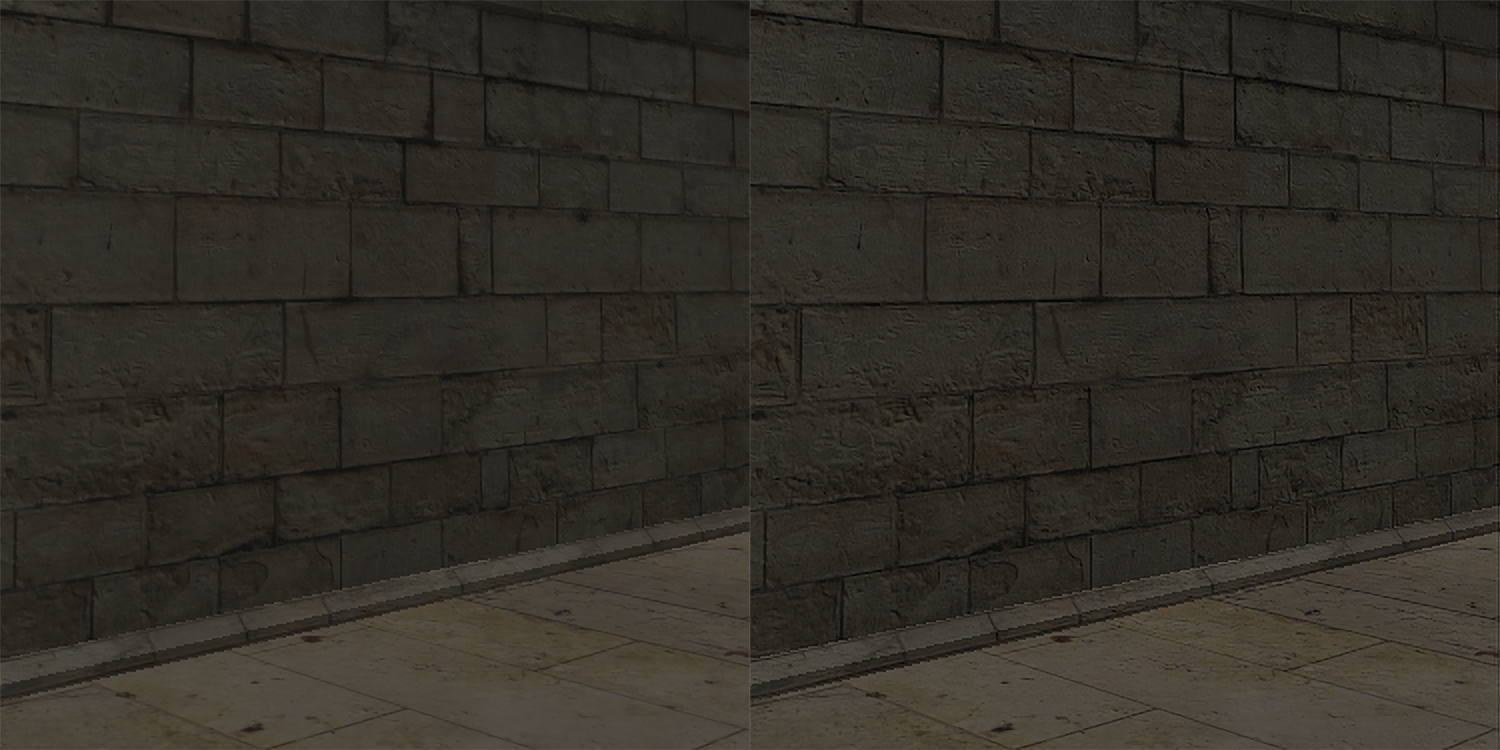
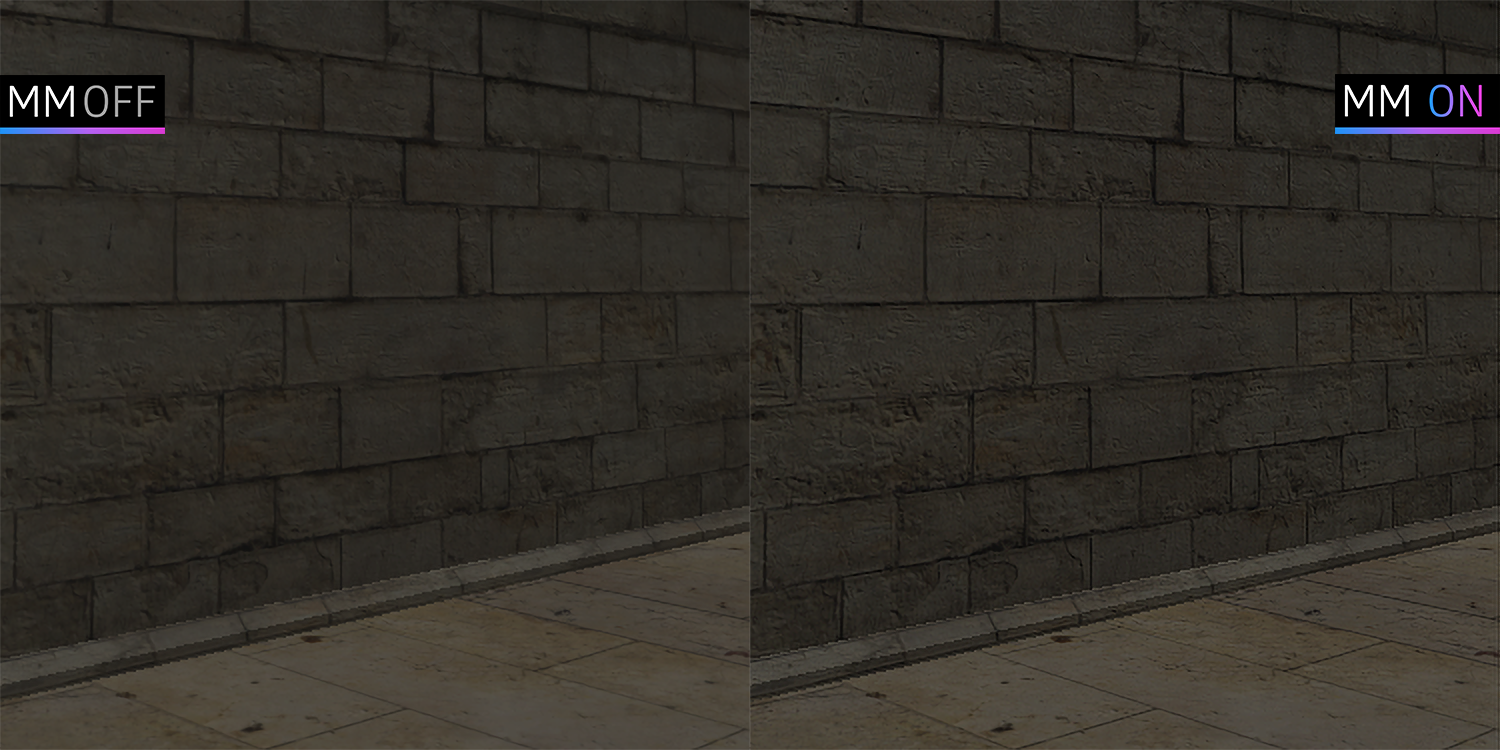
update #2

Changed region(s): [[0.8893, 0.092, 1.0, 0.184], [0.0, 0.092, 0.1227, 0.184]]

diff --git a/docs/shader-repositories/immerse/immerse-sharpen.md b/docs/shader-repositories/immerse/immerse-sharpen.md
@@ -8,14 +8,14 @@ grand_parent: Shader Repositories
 
 # iMMERSE: Sharpen
 
+![sharpening comparison](../images/sharpen_comparison.png)
+
 iMMERSE: Sharpen is a robust sharpener utilizing contrast based sharpening to get its results. Being a simple Sharpen shader, it doesn't have much control over over-sharpening or ringing, so everything should be tweaked with care. It is however, more effective than others at working with low values.
 
 ---
 
 ## Sharpen Intensity
 
-iMMERSE Sharpen has a single slider. "**Sharpen Intensity**." This means that it takes very little in order to properly sharpen the scene. You will want to manage this argument where there is a noticble increase in game details, but not overly sharpening what there is to offer.
+iMMERSE: Sharpen has a single slider. "**Sharpen Intensity**." This means that it takes very little in order to properly sharpen the scene. You will want to manage this argument where there is a noticble increase in game details, but not overly sharpening what there is to offer.
 
 Start at the value of `0.000` and work your way up until you're able to find details being presnted more in the scene you've chosen.
-
-![sharpening comparison](../images/sharpen_comparison.png)
